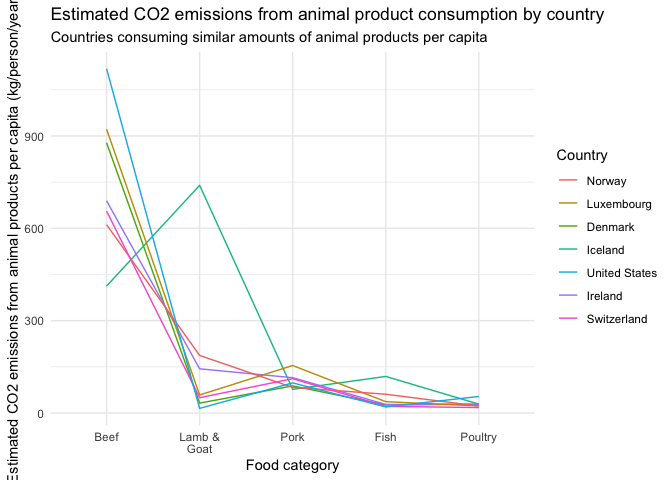
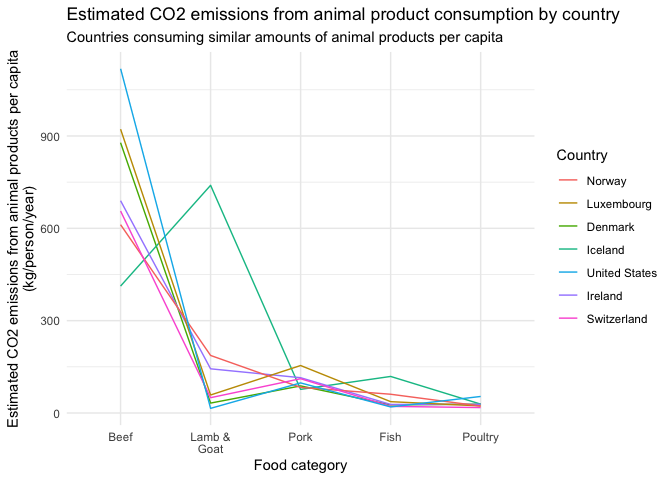
project v1.2

diff --git a/p01-co2-emissions-animal-products.md b/p01-co2-emissions-animal-products.md
@@ -838,7 +838,7 @@ df_food_animal_high_income %>%
     title = "Estimated CO2 emissions from animal product consumption by country",
     subtitle = "Countries consuming similar amounts of animal products per capita",
     x = "Food category",
-    y = "Estimated CO2 emissions from animal products per capita (kg/person/year)"
+    y = "Estimated CO2 emissions from animal products per capita\n(kg/person/year)"
   ) +
   theme_minimal()
 ```
